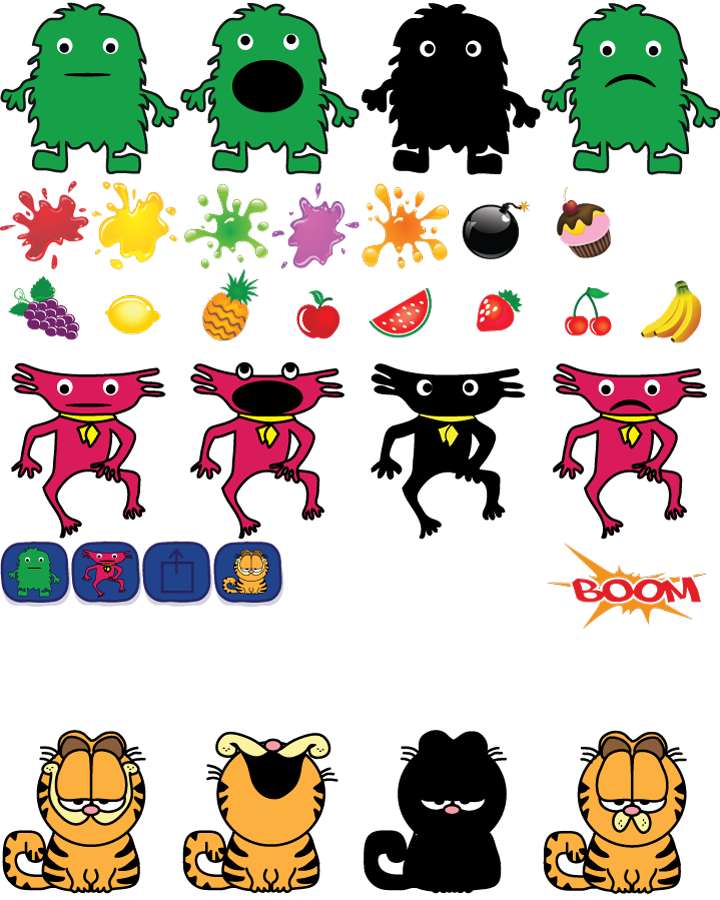
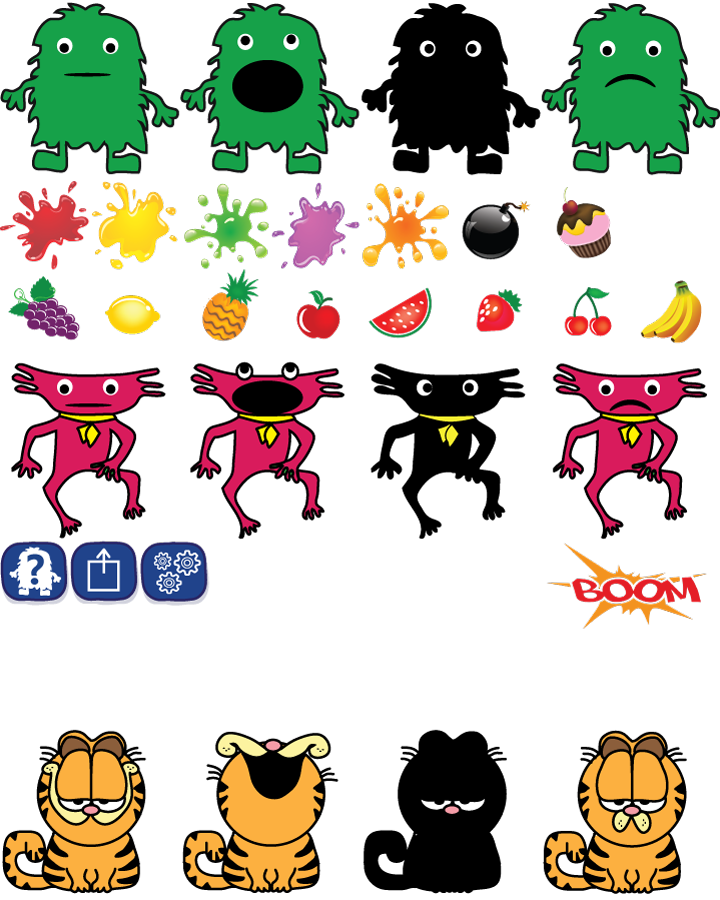
Improved GUI. Added WIP buttons.

Changed region(s): [[0.0, 0.5911, 0.3972, 0.6844]]

diff --git a/js/src/buttons.js b/js/src/buttons.js
@@ -11,66 +11,82 @@
       miamSprite: "miam",
       easingTime: 250
     }),
-    miams: [{
-      name: "miam",
-      imgX: 70
-    }, {
-      name: "miam2",
-      imgX: 140
-    }, {
-      name: "garfield",
-      imgX: 0
-    }],
+    miams: ["miam", "miam2", "garfield"],
     initialize: function(attributes, options) {
       Backbone.Button.prototype.initialize.apply(this, arguments);
 
       options || (options = {});
       this.world = options.world;
 
-      _.each(this.miams, function(o) {
-        o.imgX *= Backbone.RATIO;
-      });
-
-      var def = this.getMiamDef(JSON.parse(Backbone.storage[Backbone.LSKEY_MIAM] || JSON.stringify(this.miams[0].name)));
-      this.set({
-        miamSprite: def.name,
-        imgX: def.imgX
-      });
+      var miam = JSON.parse(Backbone.storage[Backbone.LSKEY_MIAM] || JSON.stringify(this.miams[0]));
+      this.set({miamSprite: miam});
 
       this.on('tap', this.onPressed);
     },
-    getMiamDef: function(name) {
-      name || (name = this.get("miamSprite"));
-      var names = _.map(this.miams, function(o) {return o.name;}),
-          index = _.indexOf(names, name);
-      return this.miams[index];
-    },
-    getNextMiamDef: function(name) {
-      name || (name = this.get("miamSprite"));
-      var names = _.map(this.miams, function(o) {return o.name;}),
-          index = _.indexOf(names, name),
-          next = index + 1 >= names.length ? 0 : index + 1;
-      return this.miams[next];
-    },
     onPressed: function(e) {
-      var def = this.getNextMiamDef();
-      this.set({
-        miamSprite: def.name,
-        imgX: def.imgX
-      });
+      var miam = this.get("miamSprite"),
+          index = _.indexOf(this.miams, miam),
+          nextMiam = index+1 >= this.miams.length ? this.miams[0] : this.miams[index+1];
+      this.set({miamSprite: nextMiam});
 
       var hero = this.world.getHero();
       if (hero) {
-        var cls = _.classify(def.name);
+        var cls = _.classify(nextMiam);
         this.world.add(new Backbone[cls]({
-          name: def.name,
+          name: nextMiam,
           x: hero.get("x"),
           y: hero.get("y")
         }));
         this.world.remove(hero);
       }
 
-      Backbone.storage[Backbone.LSKEY_MIAM] = JSON.stringify(def.name);
+      Backbone.storage[Backbone.LSKEY_MIAM] = JSON.stringify(nextMiam);
+    }
+  });
+
+  Backbone.ShareButton = Backbone.Button.extend({
+    defaults: _.extend({}, Backbone.Button.prototype.defaults, {
+      name: "share-button",
+      backgroundColor: "transparent",
+      width: 70,
+      height: 70,
+      img: "#miam", imgUrl: "img/miam.png",
+      imgX: 70, imgY: 540, imgWidth: 70, imgHeight: 70,
+      easingTime: 250
+    }),
+    initialize: function(attributes, options) {
+      Backbone.Button.prototype.initialize.apply(this, arguments);
+
+      options || (options = {});
+      this.world = options.world;
+
+      this.on('tap', this.onPressed);
+    },
+    onPressed: function(e) {
+      alert(window._lang.get("notYetImplemented"));
+    }
+  });
+
+  Backbone.ConfigButton = Backbone.Button.extend({
+    defaults: _.extend({}, Backbone.Button.prototype.defaults, {
+      name: "config-button",
+      backgroundColor: "transparent",
+      width: 70,
+      height: 70,
+      img: "#miam", imgUrl: "img/miam.png",
+      imgX: 140, imgY: 540, imgWidth: 70, imgHeight: 70,
+      easingTime: 250
+    }),
+    initialize: function(attributes, options) {
+      Backbone.Button.prototype.initialize.apply(this, arguments);
+
+      options || (options = {});
+      this.world = options.world;
+
+      this.on('tap', this.onPressed);
+    },
+    onPressed: function(e) {
+      alert(window._lang.get("notYetImplemented"));
     }
   });
 

diff --git a/js/src/main.js b/js/src/main.js
@@ -131,6 +131,22 @@ window.START = function() {
         world: this.world
       });
 
+      this.configButton = new Backbone.ConfigButton({
+        x: Backbone.WIDTH*0.90 - Backbone.ShareButton.prototype.defaults.width,
+        y: Backbone.HEIGHT*0.08,
+        opacity: 0
+      }, {
+        world: this.world
+      });
+
+      this.shareButton = new Backbone.ShareButton({
+        x: Backbone.WIDTH*0.50 - Backbone.ConfigButton.prototype.defaults.width/2,
+        y: Backbone.HEIGHT*0.08,
+        opacity: 0
+      }, {
+        world: this.world
+      });
+
 
       // Fruit throwing AI
       this.ai = new Backbone.Ai({}, {
@@ -150,7 +166,7 @@ window.START = function() {
         debugPanel: this.debugPanel
       });
 
-      this.engine.add([this.ai, this.world, this.miamButton]);
+      this.engine.add([this.ai, this.world, this.miamButton, this.shareButton, this.configButton]);
       if (this.debugPanel) this.engine.add(this.debugPanel);
 
       this.listenTo(this.engine, "change:music", function() {
@@ -210,10 +226,14 @@ window.START = function() {
       this.world.set("state", "pause");
       if (options.start) {
         this.miamButton.hide();
+        this.shareButton.hide();
+        this.configButton.hide();
         this.titleLabel.show(options);
         this.listenTo(this.message, "change:state", function() {
           if (this.message.get("state") == "ready") {
             this.miamButton.show();
+            this.shareButton.show();
+            this.configButton.show();
             this.stopListening(this.message, "change:state");
             this.listenTo(this.engine, "touchstart", this.onTouchToStart);
           }
@@ -222,6 +242,8 @@ window.START = function() {
       else {
         this.message.show(options);
         this.miamButton.show();
+        this.shareButton.show();
+        this.configButton.show();
         this.listenTo(this.engine, "touchstart", this.onTouchToStart);
       }
     },
@@ -230,7 +252,9 @@ window.START = function() {
       this.stopListening(this.engine, "touchstart", this.onTouchToStart);
       this.setup();
       this.message.hide();
-      this.miamButton.fadeOut();
+      this.miamButton.hide();
+      this.shareButton.hide();
+      this.configButton.hide();
     },
     onWorldSpriteRemoved: function(sprite, world, options) {
       var name = sprite.get("name"),

diff --git a/js/src/adjust-size.js b/js/src/adjust-size.js
@@ -61,7 +61,7 @@
 
   Backbone.adjustSizes = function() {
     var classes = _.union(
-      ["Miam", "Miam2", "Boom", "Fruit", "Floor", "Label", "TitleLabel", "ScoreLabel", "BestScoreLabel", "Message", "MiamButton", "Scene", "Panel", "Splat"],
+      ["Miam", "Miam2", "Boom", "Fruit", "Floor", "Label", "TitleLabel", "ScoreLabel", "BestScoreLabel", "Message", "MiamButton", "ShareButton", "ConfigButton", "Scene", "Panel", "Splat"],
       _.map(Backbone.fruitNames, function(fruitName) {return _.classify(fruitName); }),
       _.map(Backbone.fruitNames, function(fruitName) {return _.classify(Backbone[_.classify(fruitName)].prototype.defaults.explodeSprite); })
     );

diff --git a/js/src/lang.js b/js/src/lang.js
@@ -89,7 +89,8 @@
       success: "Success!",
       pleaseWait: "Please wait...",
       error: "Error",
-      errorWithMessage: "Error: {0}"
+      errorWithMessage: "Error: {0}",
+      notYetImplemented: "Not yet implemented"
     }
   };
   
